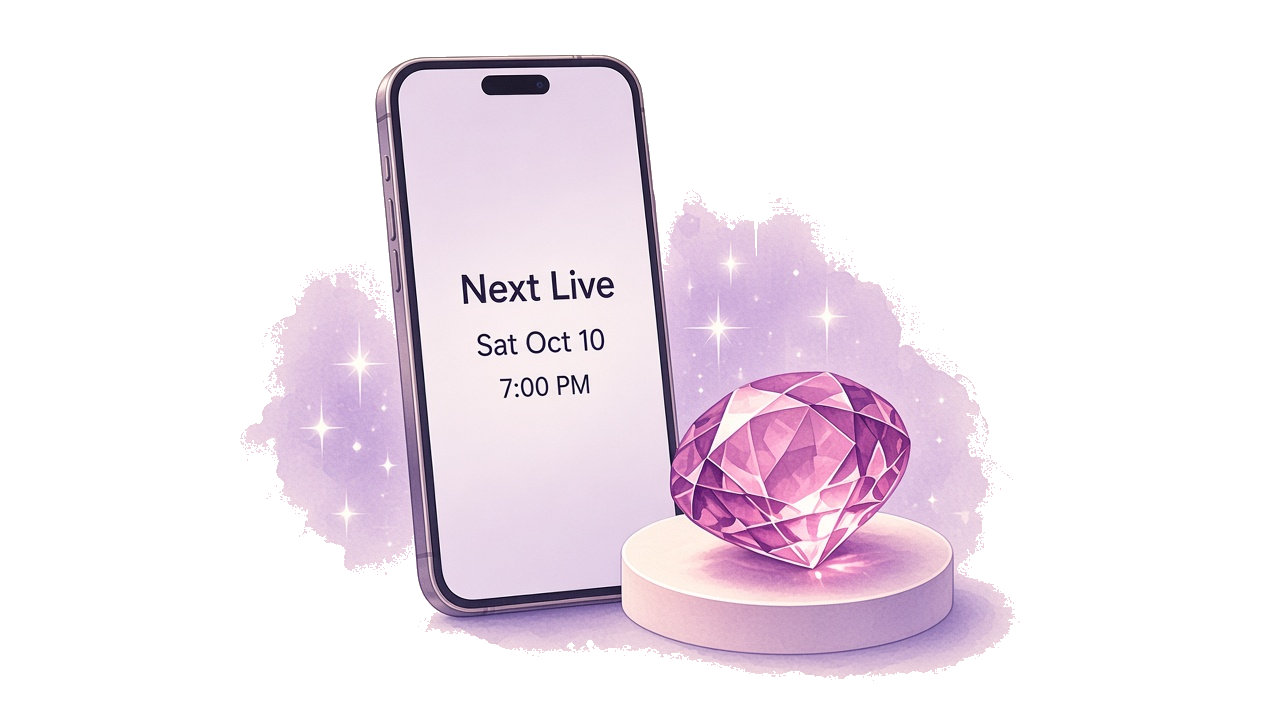
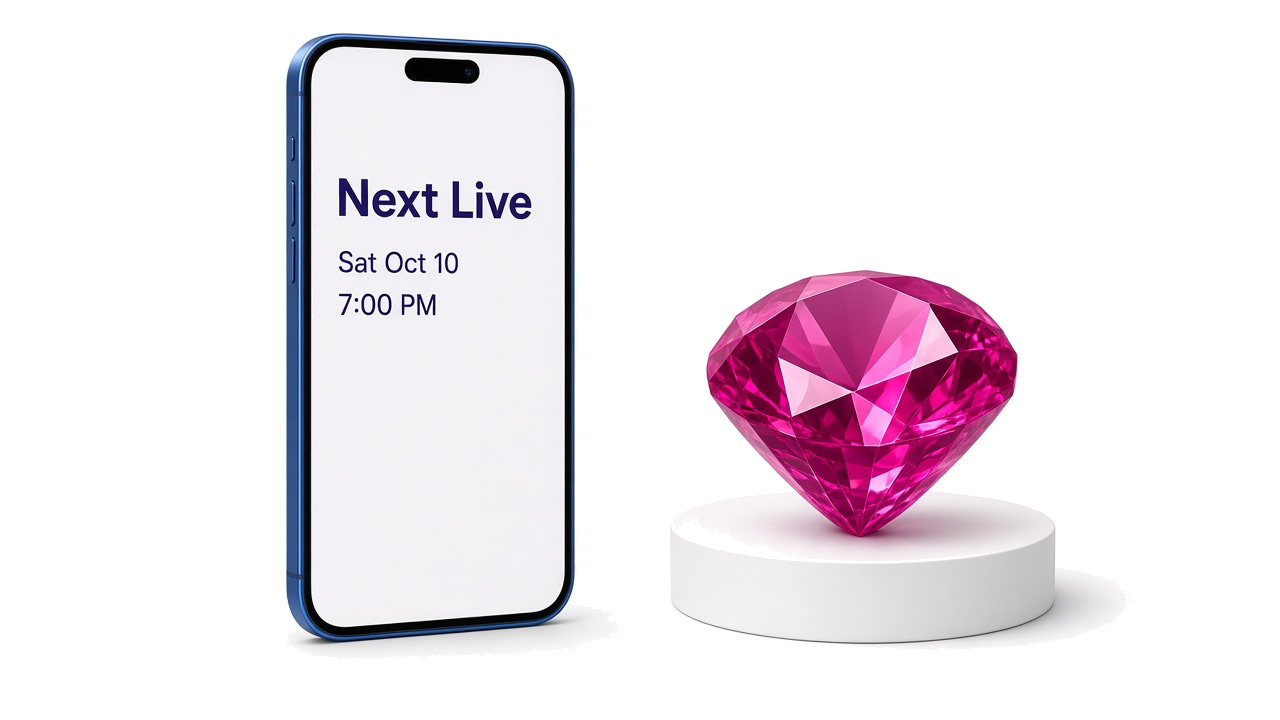
feat(finder): repaint /learn pillars in the Amethyst palette
Replace the lavender How it works paintings with indigo, electric blue, and magenta art. Metaphors stay: search lens, Own and Wish List trays, Next Live phone, velvet gems. No baked titles.

diff --git a/apps/finder/vault/2026-10-05-learn-amethyst-pillar-art-closeout.md b/apps/finder/vault/2026-10-05-learn-amethyst-pillar-art-closeout.md
@@ -1,0 +1,3 @@
+# 2026-10-05 /learn pillar art, Amethyst palette
+
+The four How it works paintings were regenerated off the lavender wash. Search is a lens over magenta and electric-blue gems. Save trays read only Own and Wish List. Go to the show is a phone with Next Live, Sat Oct 10, 7:00 PM, and a pedestal gem, with no calendar. Show it off is three gems on a small indigo velvet cushion. No baked card titles. White art field. Not deployed. Denver deploys Finder Smoke.
